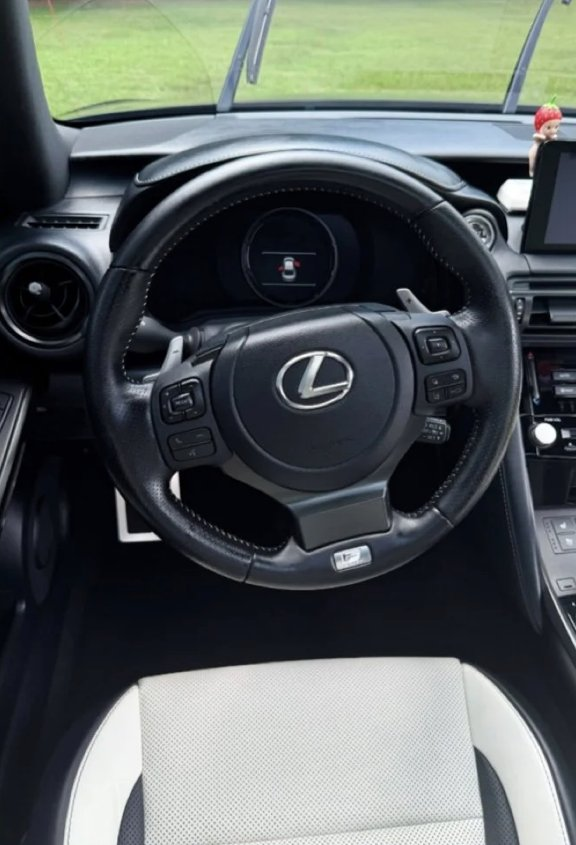
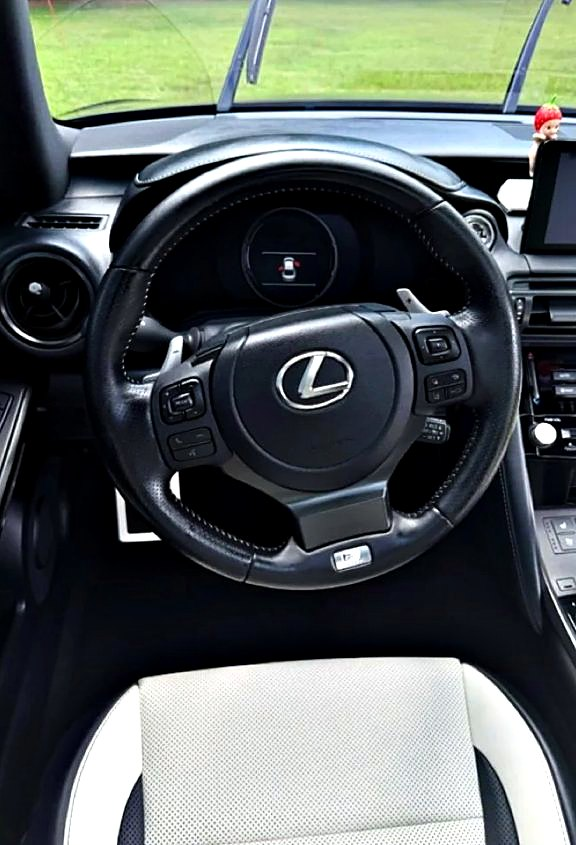
Gallery: 15 photos at natural shape (masonry), Full Factory Reset photos glossier with a bigger photo area

diff --git a/index.html b/index.html
@@ -81,10 +81,10 @@
       <article class="card feature gold reveal">
         <span class="ribbon"><svg class="crown" viewBox="0 0 64 48" aria-hidden="true"><defs><linearGradient id="cg" x1="0" y1="0" x2="0" y2="1"><stop offset="0" stop-color="#fff3b8"/><stop offset=".5" stop-color="#f7c948"/><stop offset="1" stop-color="#d98e0b"/></linearGradient></defs><path d="M6 40L3 12l15 12L32 4l14 20 15-12-3 28z" fill="url(#cg)" stroke="#fff3b8" stroke-width="1.5" stroke-linejoin="round"/><rect x="6" y="40" width="52" height="6" rx="3" fill="url(#cg)"/><circle cx="3" cy="11" r="4" fill="#fff3b8"/><circle cx="32" cy="3.5" r="4.5" fill="#fff3b8"/><circle cx="61" cy="11" r="4" fill="#fff3b8"/><circle cx="32" cy="30" r="3.2" fill="#e4572e"/><circle cx="19" cy="33" r="2.4" fill="#4f8ff0"/><circle cx="45" cy="33" r="2.4" fill="#4f8ff0"/></svg><span><b>#1</b> Most Popular</span></span>
         <div class="photo grid4">
-          <img src="assets/lexus-front.jpg" alt="Black Lexus IS front after detail" decoding="async">
+          <img src="assets/lexus-front.jpg" alt="Black Lexus IS front after detail" style="object-position:55% 55%" decoding="async">
           <img src="assets/lexus-dash.jpg" alt="Lexus cockpit detailed" decoding="async">
           <img src="assets/lexus-seats.jpg" alt="White leather seats cleaned" decoding="async">
-          <img src="assets/lexus-grass.jpg" alt="Black Lexus IS on grass" decoding="async">
+          <img src="assets/lexus-grass.jpg" alt="Black Lexus IS on grass" style="object-position:45% 60%" decoding="async">
         </div>
         <div class="info">
           <p class="kicker">Interior + Exterior + Free Ceramic Sealant</p>
@@ -292,12 +292,21 @@
       <h2>Our Work</h2>
     </div>
     <div class="gallery">
-      <figure class="reveal g1"><img src="assets/mini-cooper.jpg" alt="Mini Cooper S, freshly detailed" loading="lazy" decoding="async"></figure>
-      <figure class="reveal g2"><img src="assets/interior-red.jpg" alt="Red leather interior, cleaned" loading="lazy" decoding="async"></figure>
-      <figure class="reveal g3"><img src="assets/action-wheel.jpg" alt="Hand washing a wheel" style="object-position:50% 40%" loading="lazy" decoding="async"></figure>
-      <figure class="reveal g4"><img src="assets/merc-c-white.jpg" alt="White Mercedes C-Class, freshly detailed" style="object-position:50% 45%" loading="lazy" decoding="async"></figure>
-      <figure class="reveal g5"><img src="assets/audi-tt.jpg" alt="Red Audi TT with a deep gloss finish" style="object-position:50% 56%" loading="lazy" decoding="async"></figure>
-      <figure class="reveal g6"><img src="assets/f250.jpg" alt="Lifted Ford F-250, freshly washed" style="object-position:50% 58%" loading="lazy" decoding="async"></figure>
+      <figure class="reveal"><img src="assets/mini-cooper.jpg" alt="Mini Cooper S, freshly detailed" width="1300" height="997" loading="lazy" decoding="async"></figure>
+      <figure class="reveal"><img src="assets/interior-red.jpg" alt="Red leather interior, cleaned" width="975" height="1300" loading="lazy" decoding="async"></figure>
+      <figure class="reveal"><img src="assets/gal-audi-tt.jpg" alt="Red Audi TT with a deep gloss finish" width="975" height="572" loading="lazy" decoding="async"></figure>
+      <figure class="reveal"><img src="assets/lexus-grass.jpg" alt="Black Lexus IS on the grass" width="576" height="691" loading="lazy" decoding="async"></figure>
+      <figure class="reveal"><img src="assets/gal-lexus-white.jpg" alt="White Lexus IS, freshly detailed" width="843" height="702" loading="lazy" decoding="async"></figure>
+      <figure class="reveal"><img src="assets/amg-interior.jpg" alt="Mercedes AMG interior, red and black leather" width="731" height="1300" loading="lazy" decoding="async"></figure>
+      <figure class="reveal"><img src="assets/boat-sea-hunt.jpg" alt="Center console boat on a lift" width="975" height="1300" loading="lazy" decoding="async"></figure>
+      <figure class="reveal"><img src="assets/gal-f250.jpg" alt="Lifted Ford F-250, freshly washed" width="975" height="728" loading="lazy" decoding="async"></figure>
+      <figure class="reveal"><img src="assets/action-wheel.jpg" alt="Hand washing a wheel" width="861" height="1300" loading="lazy" decoding="async"></figure>
+      <figure class="reveal"><img src="assets/gal-merc-white.jpg" alt="White Mercedes C-Class, freshly detailed" width="974" height="728" loading="lazy" decoding="async"></figure>
+      <figure class="reveal"><img src="assets/lexus-seats.jpg" alt="White leather Lexus seats, cleaned" width="576" height="691" loading="lazy" decoding="async"></figure>
+      <figure class="reveal"><img src="assets/boat-cruiser.jpg" alt="Cabin cruiser at the dock at sunset" width="836" height="1300" loading="lazy" decoding="async"></figure>
+      <figure class="reveal"><img src="assets/merc-c-interior.jpg" alt="Mercedes interior, freshly detailed" width="975" height="1300" loading="lazy" decoding="async"></figure>
+      <figure class="reveal"><img src="assets/lexus-front.jpg" alt="Black Lexus IS front end" width="576" height="845" loading="lazy" decoding="async"></figure>
+      <figure class="reveal"><img src="assets/uploads/headlight-after.jpg" alt="Clear headlight after restoration" width="939" height="1300" loading="lazy" decoding="async"></figure>
     </div>
   </section>
 

diff --git a/styles.css b/styles.css
@@ -1136,3 +1136,11 @@ button.cta{border:2px solid transparent;cursor:pointer;line-height:1.2}
 #book .yay .muted a{color:#ffe27a;font-weight:800}
 @media(prefers-reduced-motion:reduce){#book .confetti{display:none}#book .yay-badge,#book .yay .yay-big{animation:none!important}}
 #book .done.yay .yay-sub{color:#fff}
+
+/* ===== Our Work: more photos at their natural shape (columns), and a bigger photo area on the Full Factory Reset card ===== */
+.gallery{display:block;column-count:3;column-gap:14px}
+.gallery figure{break-inside:avoid;margin:0 0 14px;border-radius:18px;overflow:hidden}
+.gallery img{width:100%;height:auto;display:block}
+@media(max-width:900px){.gallery{column-count:2;column-gap:10px}.gallery figure{margin-bottom:10px;border-radius:14px}}
+@media(min-width:900px){.card.feature.gold{grid-template-columns:1fr 1.15fr}}
+@media(max-width:900px){.card.feature.gold .photo.grid4{aspect-ratio:3/4}}

diff --git a/CLAUDE.md b/CLAUDE.md
@@ -28,6 +28,7 @@ Never put tokens or secrets in the repo or in chat. Never write to the owner's S
 
 ## Photos (owner's originals are on their PC)
 - Originals: `D:\PHOTO Folders\VVM Photos` (folder access was granted to Claude on 2026-10-11). Phone photos CARRY GPS LOCATION in their metadata, and some show house numbers or boat registration numbers. Before any photo goes in `assets/`: re-save it with Pillow keeping only pixels (apply the phone rotation first, never pass `exif=`), resize to about 1300 px on the long side at JPEG quality ~78, crop out house numbers, and blur boat/vehicle registration numbers. Verify no file contains Exif/GPS before committing. Never commit the originals.
+- Our Work gallery is a masonry (CSS columns, 3 on desktop, 2 on phones) of 15 photos shown at their natural shape, never force-cropped; add more by adding a `<figure class="reveal"><img ... width height loading="lazy"></figure>` line. `gal-*.jpg` are tight crops (sky/pavement trimmed so the whole car stays in) made from the web-size images. The four Full Factory Reset photos were given a bit more gloss and color (S-curve, +saturation, local contrast) from the originals; the photo column on that card is wider (1fr / 1.15fr) and on phones the grid is 3:4 so the cars fit.
 - Used so far: hero collage (red Camry seats, white Lexus IS, Mini Cooper S cropped below the roofline because a house number "5900" is at the top of the original, white Mercedes C), gallery (Mini, red seats, wheel-washing action shot, white Mercedes, Audi TT, F-250), paint card (Audi TT), banner (Mercedes C interior). Not used on purpose: the Mercedes GLS steering wheel photo (other cars' plates in the background), a second near-duplicate Mini photo.
 
 ## Booking system
